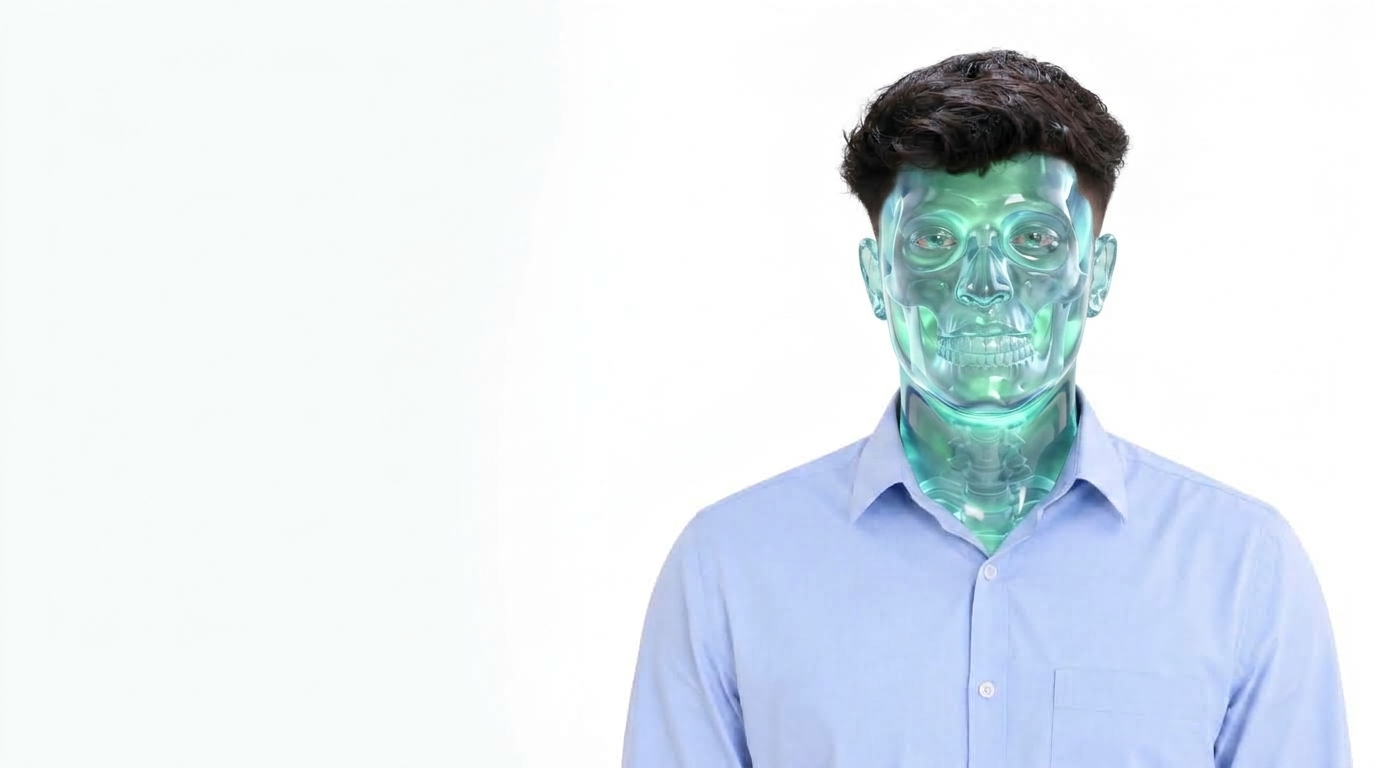
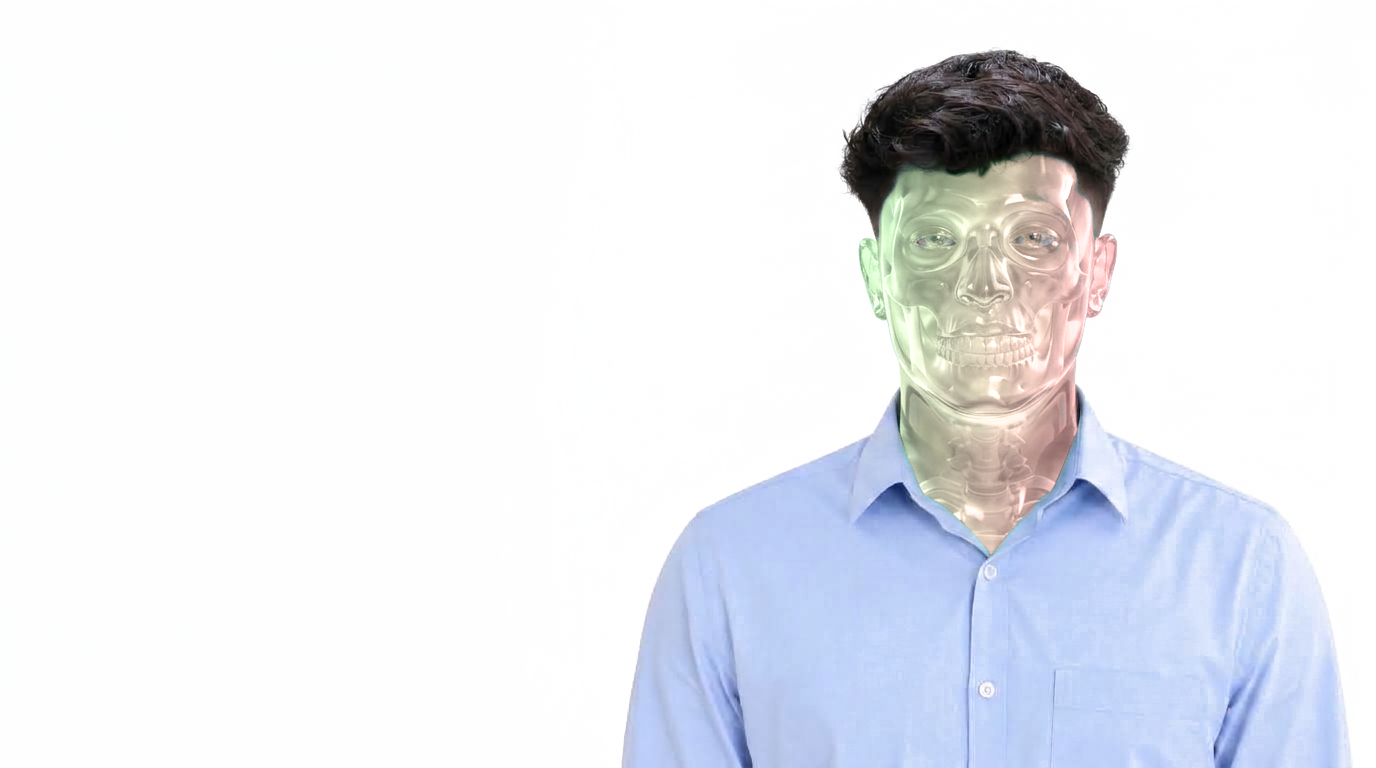
feat: reduce reveal cursor radius and add light green and light red watercolor crystal refraction overlay

Changed region(s): [[0.625, 0.1875, 0.8125, 0.7188]]

diff --git a/components/glass-hero.tsx b/components/glass-hero.tsx
@@ -32,9 +32,9 @@ export function GlassHero() {
     // Check prefers-reduced-motion
     const reducedMotion = window.matchMedia('(prefers-reduced-motion: reduce)').matches;
 
-    // Radius specs
-    const DESKTOP_RADIUS = 235;
-    const MOBILE_RADIUS = 150;
+    // Radius specs (compact focused lens)
+    const DESKTOP_RADIUS = 165;
+    const MOBILE_RADIUS = 110;
 
     // RequestAnimationFrame smooth interpolation loop
     const animate = () => {
@@ -155,20 +155,22 @@ export function GlassHero() {
         </div>
       </div>
 
-      {/* Background Image Layer 2: Reveal Image (Translucent Liquid Glass) with CSS Masking */}
+      {/* Background Image Layer 2: Reveal Image (Translucent Liquid Glass) with CSS Masking & Light Green/Red Water Color Tint */}
       <div
         className="absolute inset-0 w-full h-full pointer-events-none reveal-mask-layer z-20 flex items-end justify-center md:justify-end pt-16 md:pt-20"
         aria-hidden="true"
       >
-        <div className="w-full h-full max-h-[85vh] md:max-h-[88vh] lg:max-h-[92vh] flex items-end justify-center md:justify-end transform scale-100 md:scale-105 lg:scale-108 origin-bottom md:origin-bottom-right">
+        <div className="w-full h-full max-h-[85vh] md:max-h-[88vh] lg:max-h-[92vh] flex items-end justify-center md:justify-end transform scale-100 md:scale-105 lg:scale-108 origin-bottom md:origin-bottom-right relative">
           <picture className="h-full w-full flex items-end justify-center md:justify-end">
             <source media="(max-width: 767px)" srcSet="/images/Reveal_image_mobile.png" />
             <img
               src="/images/Reveal_image_desktop.png"
               alt="Portrait Master Liquid Glass Reveal"
-              className="max-h-full w-auto object-contain object-bottom md:object-right-bottom max-w-full"
+              className="max-h-full w-auto object-contain object-bottom md:object-right-bottom max-w-full filter contrast-[1.05]"
             />
           </picture>
+          {/* Soft Water Color Light Green & Light Red Dual Refraction Tint */}
+          <div className="absolute inset-0 pointer-events-none bg-gradient-to-r from-emerald-400/20 via-transparent to-rose-400/20 mix-blend-color-dodge opacity-90" />
         </div>
       </div>
 
